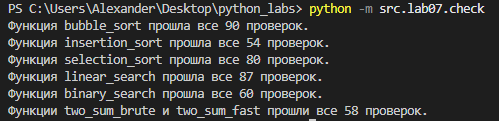
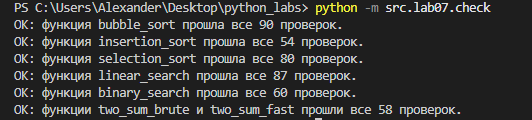
last fix pls

diff --git a/src/lab07/check.py b/src/lab07/check.py
@@ -60,13 +60,13 @@ if __name__=="__main__":
     for fn in (bubble_sort, insertion_sort, selection_sort):
         amount_sorting = random.randint(50, 100)
         check_sorting(fn, amount_sorting)
-        print(f"Функция {fn.__name__} прошла все {amount_sorting} проверок.")
+        print(f"ОК: функция {fn.__name__} прошла все {amount_sorting} проверок.")
 
     for fn in (linear_search, binary_search):
         amount_search = random.randint(50, 100)
         check_search(fn, amount_search)
-        print(f"Функция {fn.__name__} прошла все {amount_search} проверок.")
+        print(f"ОК: функция {fn.__name__} прошла все {amount_search} проверок.")
 
     amount_two_sum = random.randint(50, 100)
     check_two_sum(amount_two_sum)
-    print(f"Функции two_sum_brute и two_sum_fast прошли все {amount_two_sum} проверок.")
+    print(f"ОК: Функции two_sum_brute и two_sum_fast прошли все {amount_two_sum} проверок.")

diff --git a/src/lab07/README.md b/src/lab07/README.md
@@ -319,3 +319,5 @@ two_sum,1000,two_sum_fast,0.000037
 two_sum,10000,two_sum_brute,0.048345
 two_sum,10000,two_sum_fast,0.000181
 ```
+
+
